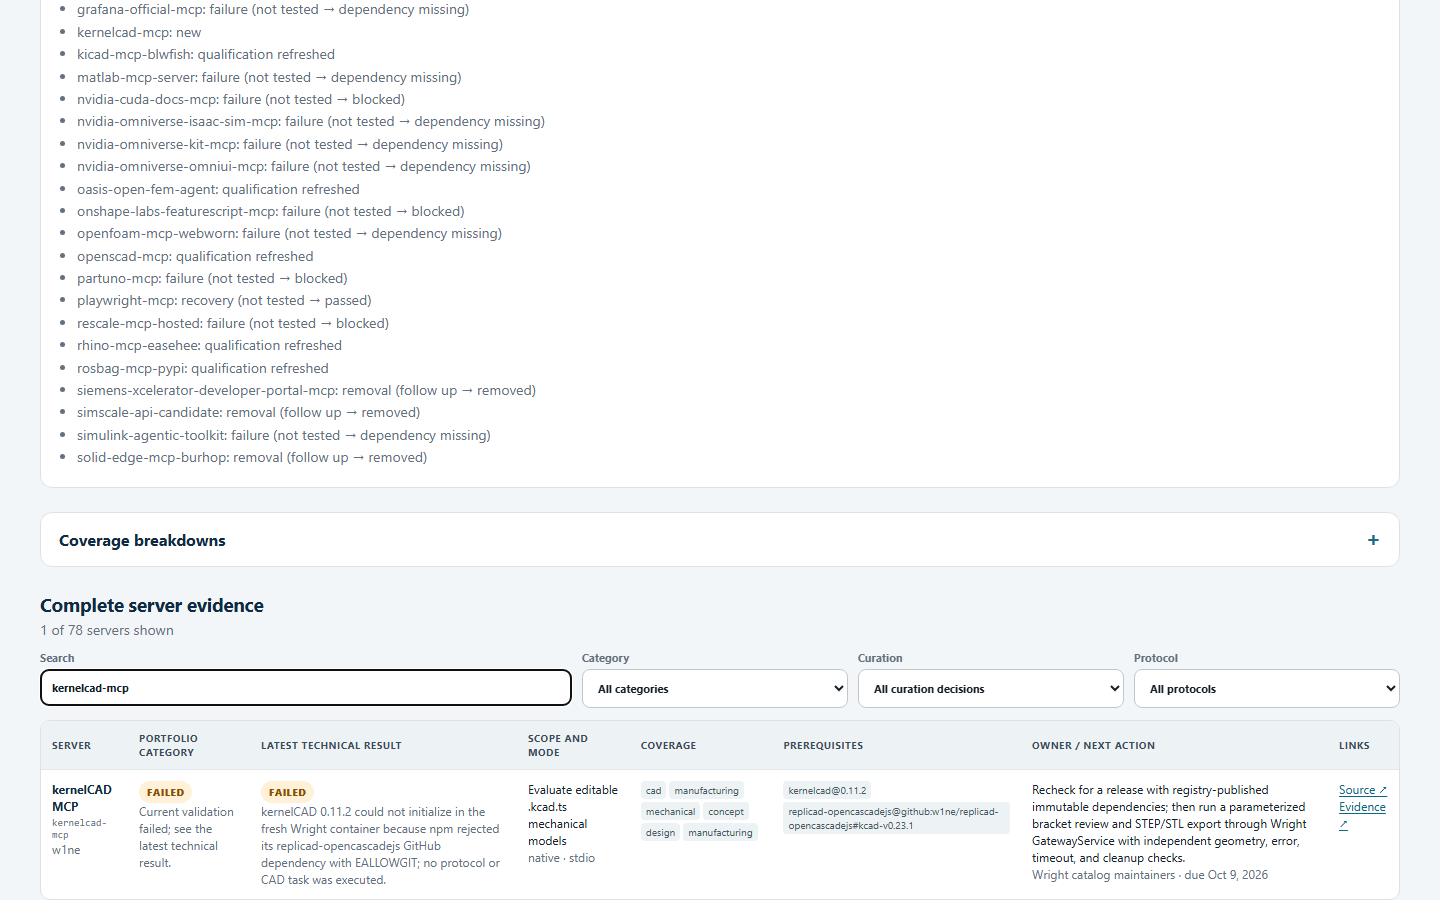
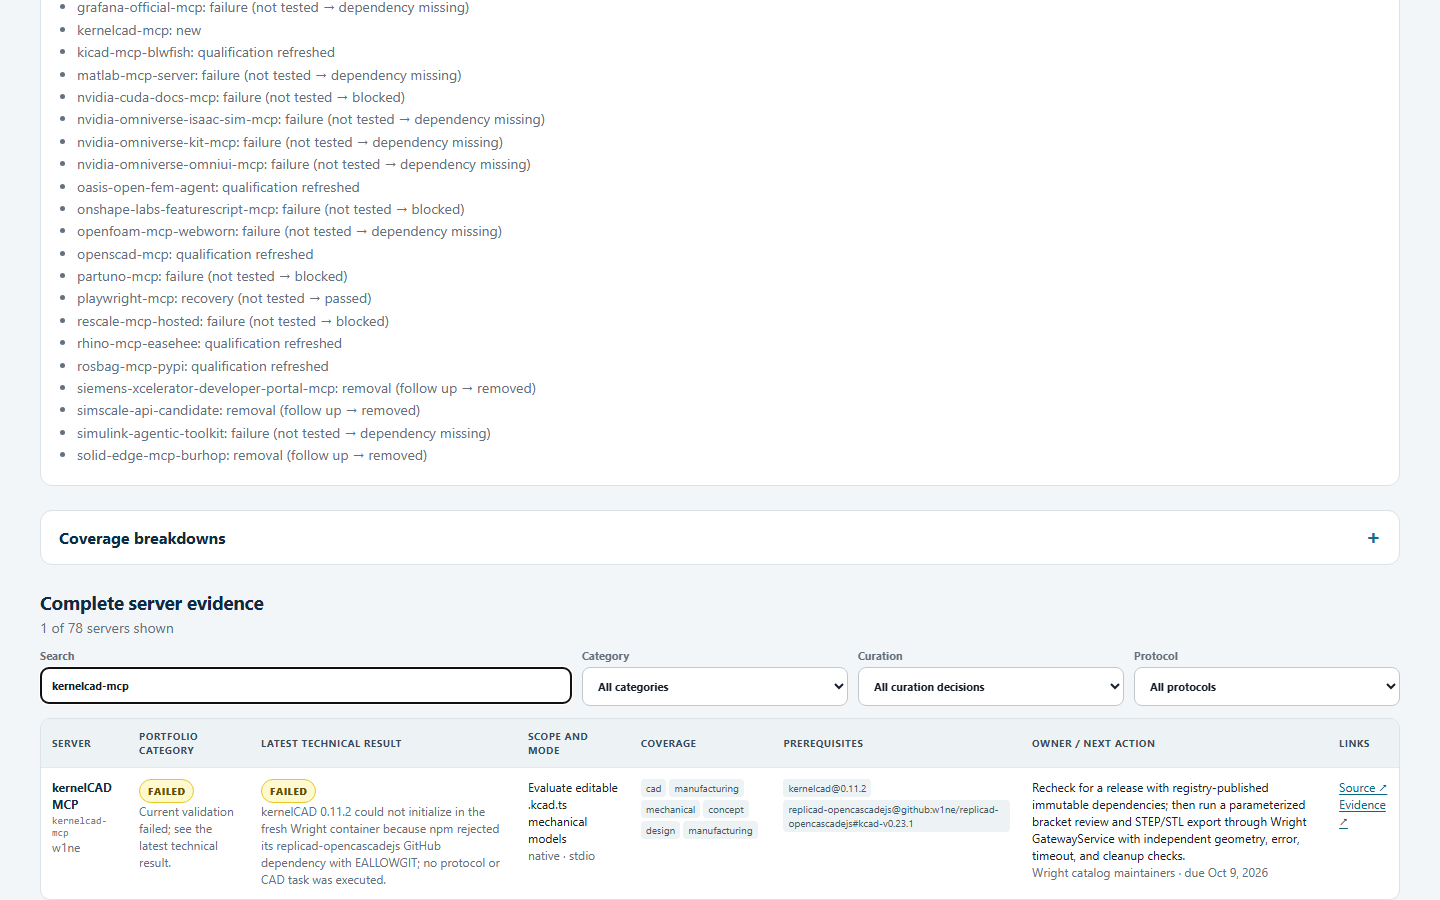
Simplify MCP dashboard status summary

diff --git a/docs/mcp-catalog/evidence/curation-2026-09-09/dashboard/index.html b/docs/mcp-catalog/evidence/curation-2026-09-09/dashboard/index.html
@@ -16,8 +16,11 @@
       --blue: #176b87;
       --cyan: #41b3c4;
       --green: #14845a;
-      --amber: #b46808;
-      --red: #b53a3a;
+      --amber: #e0b600;
+      --amber-ink: #655200;
+      --amber-wash: #fff9cf;
+      --red: #c8323d;
+      --red-wash: #fff0f1;
       --shadow: 0 10px 30px rgba(16, 42, 67, .08);
     }
     * { box-sizing: border-box; }
@@ -73,9 +76,9 @@
     .card { background: var(--paper); border: 1px solid var(--line); border-radius: 12px; box-shadow: var(--shadow); }
     .kpi { padding: 17px 18px; border-top: 4px solid var(--blue); }
     .kpi.good { border-color: var(--green); }
-    .kpi.warn { border-color: var(--amber); }
+    .kpi.warn { border-color: var(--amber); background: var(--amber-wash); }
     .kpi.bad { border-color: var(--red); }
-    .kpi.archive { border-color: var(--red); }
+    .kpi.archive { border-color: var(--red); background: var(--red-wash); }
     .kpi-label { color: var(--muted); font-size: 11px; font-weight: 750; letter-spacing: .08em; text-transform: uppercase; }
     .kpi-value { display: block; margin-top: 4px; font-size: 29px; font-weight: 800; letter-spacing: -.04em; }
     .kpi-note { color: var(--muted); font-size: 11px; }
@@ -96,8 +99,8 @@
     .small-row { color: var(--muted); line-height: 1.55; }
     .pill { display: inline-flex; align-items: center; border-radius: 999px; padding: 4px 8px; font-size: 10px; font-weight: 800; letter-spacing: .04em; text-transform: uppercase; background: #e7ecef; color: #4a5966; }
     .pill.passing, .pill.curated, .pill.passed, .pill.implemented, .pill.qualified, .pill.preflight_passed, .pill.authentication_required { background: #dff3e9; color: #086942; }
-    .pill.follow_up, .pill.blocked, .pill.dependency_missing, .pill.qualification_required, .pill.environment_required, .pill.untested, .pill.stale, .pill.research_preview, .pill.failing, .pill.failed { background: #fff0d8; color: #8c4e00; }
-    .pill.removed, .pill.excluded_archive { background: #fde6e6; color: #9c2424; }
+    .pill.follow_up, .pill.blocked, .pill.dependency_missing, .pill.qualification_required, .pill.environment_required, .pill.untested, .pill.stale, .pill.research_preview, .pill.failing, .pill.failed { background: var(--amber-wash); color: var(--amber-ink); border: 1px solid #e4c928; }
+    .pill.removed, .pill.excluded_archive { background: var(--red-wash); color: #98212b; border: 1px solid #e5a1a7; }
     .traffic-legend { display: flex; flex-wrap: wrap; gap: 10px; margin: 16px 0 8px; }
     .traffic-item { display: flex; align-items: center; gap: 8px; padding: 8px 12px; border: 1px solid var(--line); border-radius: 10px; background: #fff; font-size: 12px; }
     .traffic-dot { width: 11px; height: 11px; border-radius: 50%; flex: 0 0 auto; }
@@ -165,10 +168,9 @@
       <div class="traffic-item"><span class="traffic-dot red"></span><strong>Red</strong><span>Did not work and the evaluation is closed</span></div>
     </div>
     <section>
-      <div class="section-head"><div><h2>Product view</h2><p class="section-copy">Only Available servers are ready for ordinary product discovery. The other groups require progressively more validation.</p></div></div>
+      <div class="section-head"><div><h2>Product view</h2><p class="section-copy" id="product-summary"></p></div></div>
       <div class="grid kpis" id="product-groups" data-testid="engineering-product-groups"></div>
     </section>
-    <div class="grid kpis" id="kpis"></div>
 
     <section>
       <div class="section-head"><div><h2>Category key</h2><p class="section-copy">Portfolio categories describe the next curation action. Technical validation results remain visible in the evidence table.</p></div></div>
@@ -243,36 +245,6 @@
     };
     const formatDate = (value) => value ? new Date(`${value}T00:00:00Z`).toLocaleDateString(undefined, { year: "numeric", month: "short", day: "numeric", timeZone: "UTC" }) : "—";
     const values = (record) => [record.name, record.server_id, record.vendor, record.scope, record.next_action, record.portfolio_category, record.portfolio_category_reason, record.curation_reason, ...(record.prerequisites || []), ...(record.disciplines || [])].join(" ").toLowerCase();
-
-    function renderKpis(status) {
-      const tones = {
-        qualified: "good",
-        preflight_passed: "good",
-        authentication_required: "good",
-        environment_required: "warn",
-        untested: "warn",
-        failed: "warn",
-        excluded_archive: "archive",
-      };
-      const notes = {
-        qualified: `Target ${status.target.minimum}–${status.target.maximum}`,
-        preflight_passed: "Complete full qualification",
-        authentication_required: "Authentication challenge only",
-        environment_required: "Host, license, hardware, or lab needed",
-        untested: "Run initial preflight",
-        failed: "Fix, replace, or exclude",
-        excluded_archive: "Hidden from discovery",
-      };
-      const rows = status.category_key.map((item) => [item.label, status.category_counts[item.id], notes[item.id], tones[item.id] || "", `engineering-category-${item.id}`]);
-      for (const [label, value, note, tone, testid] of rows) {
-        const card = node("div", `card kpi ${tone}`);
-        card.dataset.testid = testid;
-        appendText(card, "span", "kpi-label", label);
-        appendText(card, "strong", "kpi-value", String(value));
-        appendText(card, "span", "kpi-note", note);
-        byId("kpis").appendChild(card);
-      }
-    }
 
     function renderProductGroups(status) {
       const notes = {
@@ -449,8 +421,8 @@
         node("span", "", `${status.records.length} records`),
         node("span", "", `${status.counts.curated} curated · ${status.counts.follow_up} follow-up · ${status.counts.removed} archived`),
       );
+      byId("product-summary").textContent = `${status.tested_as_far_as_possible.count} integrations have been tested as far as currently possible without an observed product defect. Only the ${status.product_release.count} Available servers are ready for ordinary product discovery.`;
       renderProductGroups(status);
-      renderKpis(status);
       renderCategoryKey(status);
       renderProtocols(status);
       renderChains(status);

diff --git a/scripts/engineering-mcp-dashboard.html b/scripts/engineering-mcp-dashboard.html
@@ -16,8 +16,11 @@
       --blue: #176b87;
       --cyan: #41b3c4;
       --green: #14845a;
-      --amber: #b46808;
-      --red: #b53a3a;
+      --amber: #e0b600;
+      --amber-ink: #655200;
+      --amber-wash: #fff9cf;
+      --red: #c8323d;
+      --red-wash: #fff0f1;
       --shadow: 0 10px 30px rgba(16, 42, 67, .08);
     }
     * { box-sizing: border-box; }
@@ -73,9 +76,9 @@
     .card { background: var(--paper); border: 1px solid var(--line); border-radius: 12px; box-shadow: var(--shadow); }
     .kpi { padding: 17px 18px; border-top: 4px solid var(--blue); }
     .kpi.good { border-color: var(--green); }
-    .kpi.warn { border-color: var(--amber); }
+    .kpi.warn { border-color: var(--amber); background: var(--amber-wash); }
     .kpi.bad { border-color: var(--red); }
-    .kpi.archive { border-color: var(--red); }
+    .kpi.archive { border-color: var(--red); background: var(--red-wash); }
     .kpi-label { color: var(--muted); font-size: 11px; font-weight: 750; letter-spacing: .08em; text-transform: uppercase; }
     .kpi-value { display: block; margin-top: 4px; font-size: 29px; font-weight: 800; letter-spacing: -.04em; }
     .kpi-note { color: var(--muted); font-size: 11px; }
@@ -96,8 +99,8 @@
     .small-row { color: var(--muted); line-height: 1.55; }
     .pill { display: inline-flex; align-items: center; border-radius: 999px; padding: 4px 8px; font-size: 10px; font-weight: 800; letter-spacing: .04em; text-transform: uppercase; background: #e7ecef; color: #4a5966; }
     .pill.passing, .pill.curated, .pill.passed, .pill.implemented, .pill.qualified, .pill.preflight_passed, .pill.authentication_required { background: #dff3e9; color: #086942; }
-    .pill.follow_up, .pill.blocked, .pill.dependency_missing, .pill.qualification_required, .pill.environment_required, .pill.untested, .pill.stale, .pill.research_preview, .pill.failing, .pill.failed { background: #fff0d8; color: #8c4e00; }
-    .pill.removed, .pill.excluded_archive { background: #fde6e6; color: #9c2424; }
+    .pill.follow_up, .pill.blocked, .pill.dependency_missing, .pill.qualification_required, .pill.environment_required, .pill.untested, .pill.stale, .pill.research_preview, .pill.failing, .pill.failed { background: var(--amber-wash); color: var(--amber-ink); border: 1px solid #e4c928; }
+    .pill.removed, .pill.excluded_archive { background: var(--red-wash); color: #98212b; border: 1px solid #e5a1a7; }
     .traffic-legend { display: flex; flex-wrap: wrap; gap: 10px; margin: 16px 0 8px; }
     .traffic-item { display: flex; align-items: center; gap: 8px; padding: 8px 12px; border: 1px solid var(--line); border-radius: 10px; background: #fff; font-size: 12px; }
     .traffic-dot { width: 11px; height: 11px; border-radius: 50%; flex: 0 0 auto; }
@@ -165,10 +168,9 @@
       <div class="traffic-item"><span class="traffic-dot red"></span><strong>Red</strong><span>Did not work and the evaluation is closed</span></div>
     </div>
     <section>
-      <div class="section-head"><div><h2>Product view</h2><p class="section-copy">Only Available servers are ready for ordinary product discovery. The other groups require progressively more validation.</p></div></div>
+      <div class="section-head"><div><h2>Product view</h2><p class="section-copy" id="product-summary"></p></div></div>
       <div class="grid kpis" id="product-groups" data-testid="engineering-product-groups"></div>
     </section>
-    <div class="grid kpis" id="kpis"></div>
 
     <section>
       <div class="section-head"><div><h2>Category key</h2><p class="section-copy">Portfolio categories describe the next curation action. Technical validation results remain visible in the evidence table.</p></div></div>
@@ -243,36 +245,6 @@
     };
     const formatDate = (value) => value ? new Date(`${value}T00:00:00Z`).toLocaleDateString(undefined, { year: "numeric", month: "short", day: "numeric", timeZone: "UTC" }) : "—";
     const values = (record) => [record.name, record.server_id, record.vendor, record.scope, record.next_action, record.portfolio_category, record.portfolio_category_reason, record.curation_reason, ...(record.prerequisites || []), ...(record.disciplines || [])].join(" ").toLowerCase();
-
-    function renderKpis(status) {
-      const tones = {
-        qualified: "good",
-        preflight_passed: "good",
-        authentication_required: "good",
-        environment_required: "warn",
-        untested: "warn",
-        failed: "warn",
-        excluded_archive: "archive",
-      };
-      const notes = {
-        qualified: `Target ${status.target.minimum}–${status.target.maximum}`,
-        preflight_passed: "Complete full qualification",
-        authentication_required: "Authentication challenge only",
-        environment_required: "Host, license, hardware, or lab needed",
-        untested: "Run initial preflight",
-        failed: "Fix, replace, or exclude",
-        excluded_archive: "Hidden from discovery",
-      };
-      const rows = status.category_key.map((item) => [item.label, status.category_counts[item.id], notes[item.id], tones[item.id] || "", `engineering-category-${item.id}`]);
-      for (const [label, value, note, tone, testid] of rows) {
-        const card = node("div", `card kpi ${tone}`);
-        card.dataset.testid = testid;
-        appendText(card, "span", "kpi-label", label);
-        appendText(card, "strong", "kpi-value", String(value));
-        appendText(card, "span", "kpi-note", note);
-        byId("kpis").appendChild(card);
-      }
-    }
 
     function renderProductGroups(status) {
       const notes = {
@@ -449,8 +421,8 @@
         node("span", "", `${status.records.length} records`),
         node("span", "", `${status.counts.curated} curated · ${status.counts.follow_up} follow-up · ${status.counts.removed} archived`),
       );
+      byId("product-summary").textContent = `${status.tested_as_far_as_possible.count} integrations have been tested as far as currently possible without an observed product defect. Only the ${status.product_release.count} Available servers are ready for ordinary product discovery.`;
       renderProductGroups(status);
-      renderKpis(status);
       renderCategoryKey(status);
       renderProtocols(status);
       renderChains(status);

diff --git a/scripts/engineering_mcp_status.py b/scripts/engineering_mcp_status.py
@@ -555,6 +555,24 @@ def build_engineering_status(
                 record["server_id"] for record in records if record["release_eligible"]
             ],
         },
+        "tested_as_far_as_possible": {
+            "categories": [
+                "qualified",
+                "preflight_passed",
+                "authentication_required",
+            ],
+            "count": sum(
+                record["portfolio_category"]
+                in {"qualified", "preflight_passed", "authentication_required"}
+                for record in records
+            ),
+            "server_ids": [
+                record["server_id"]
+                for record in records
+                if record["portfolio_category"]
+                in {"qualified", "preflight_passed", "authentication_required"}
+            ],
+        },
         "product_groups": [
             {
                 "id": group_id,
